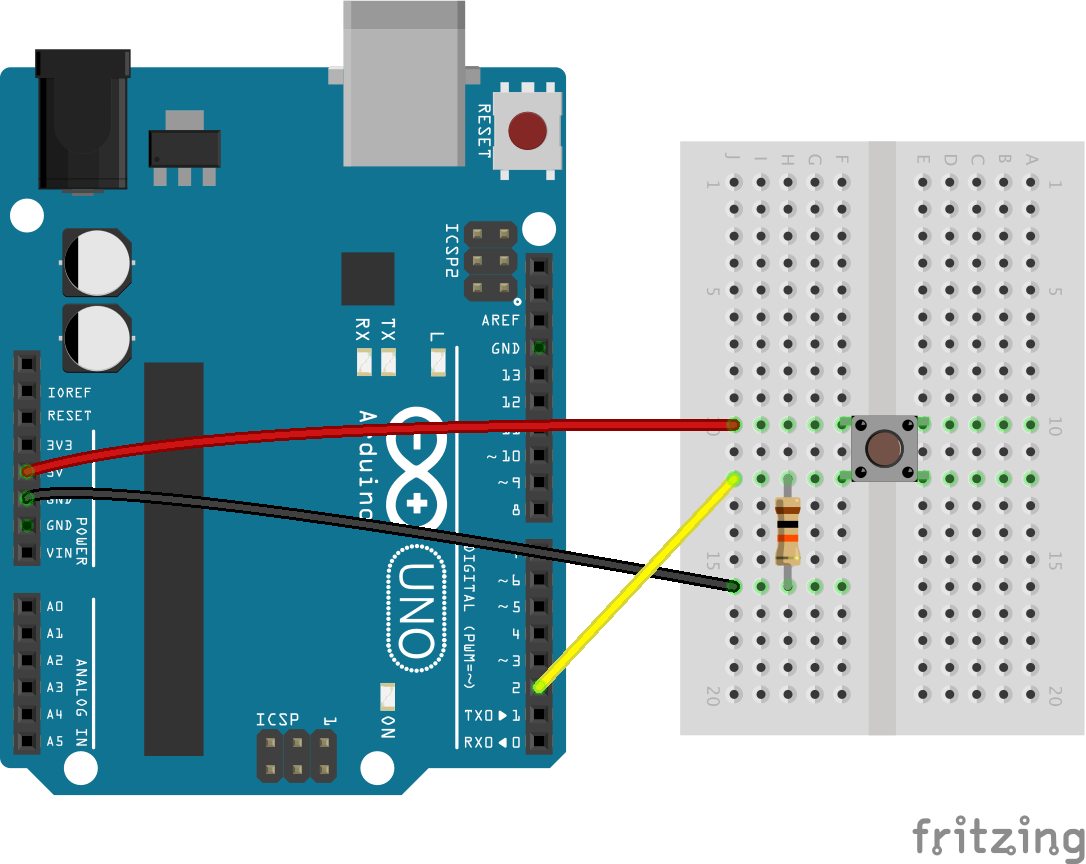
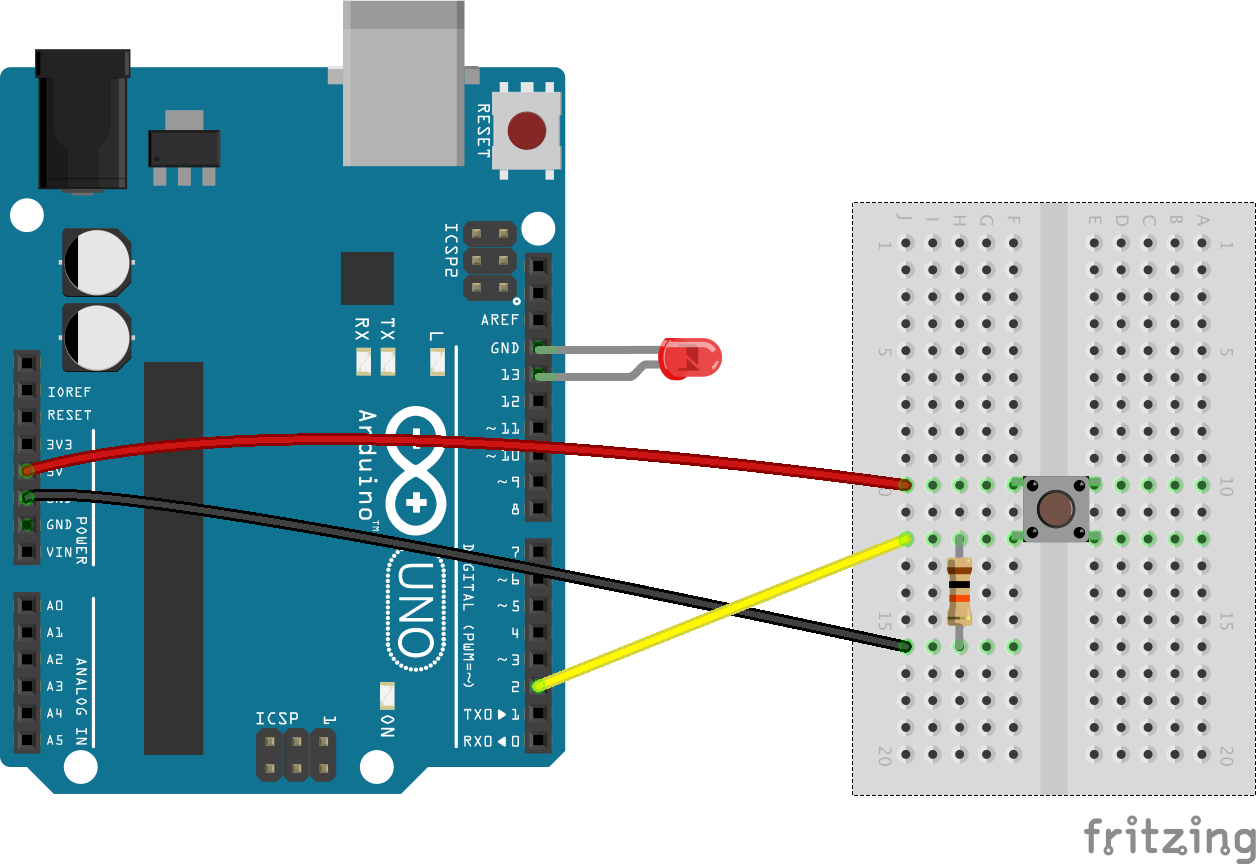
update diagrams

diff --git a/readme.md b/readme.md
@@ -4,7 +4,7 @@
 
 1. Install Hardware Extention for PageNodes - https://chrome.google.com/webstore/detail/hardware-extension-for-pa/knmappkjdfbfdomfnbfhchnaamokjdpj?utm_source=chrome-ntp-launcher
 
-2. Wire LED on breadboard and connect to Arduino ![](led-resistor.png)
+2. Wire LED on breadboard and connect to Arduino ![](led-13.png)
 
 3. Plug Arduino into Chromebook
 
@@ -15,7 +15,7 @@
 6. Configure board:
   - Nodebot = Arduino/Firmata
   - Connection = Serial port
-  - Port = /dev/tty.usbmodem...
+  - Port = /dev/tty...
   - Name = Arduino 101
 
 7. Copy and paste this code into onReady:
@@ -33,6 +33,7 @@ led.blink();
 
 2. Double click on Johnny5 node again and copy/paste this code into onReady replacing your previous code:
 ```javascript
+var led = new five.Led(13);
 var button = new five.Button(2);
 
 button.on("hold", function() {
@@ -77,16 +78,15 @@ button.on("release", function() {
 
 2. Add Meshblu node (under Output) and connect it to camera node and double click Meshblu node.
 
-3. Edit Meshblu node and add the following data:
+3. Edit Meshblu node to add a new server:
+   - click the button to create a new uuid and token.
+   - uncheck the broadcast checkbox
+   - in "To a specific uuid" use: `1b22e194-942e-4a91-aba4-96873f05da71`
 
-  - UUID = aadb700c-874a-4655-be96-b1fe8400473d
-  - Token = d00b2d7aac13eec581a90d2d17127779ac166fcf
-  - click the checkbox on broadcast
-
-4. Below the flow, add Meshblu node (under Input) and double click Meshblu node. Add broadcast from aadb700c-874a-4655-be96-b1fe8400473d and click OK.
+4. Below the flow, add Meshblu node (under Input) and double click Meshblu node. Add broadcast from `1b22e194-942e-4a91-aba4-96873f05da71` and click OK.
 
 5. Add a Debug node (under Output) to page and connect it to new Meshblu input node and double click on Debug node.
 
-6. Set output to message property msg.payload.image to debug tab.
+6. Set output to complete message object to debug tab.
 
 7. Click Deploy (top right). Congratulations!!!  Your LED should turn on when button is pressed and video snapshots should appear in your Debug tab on the right side of your page along with everyone else from your class!
